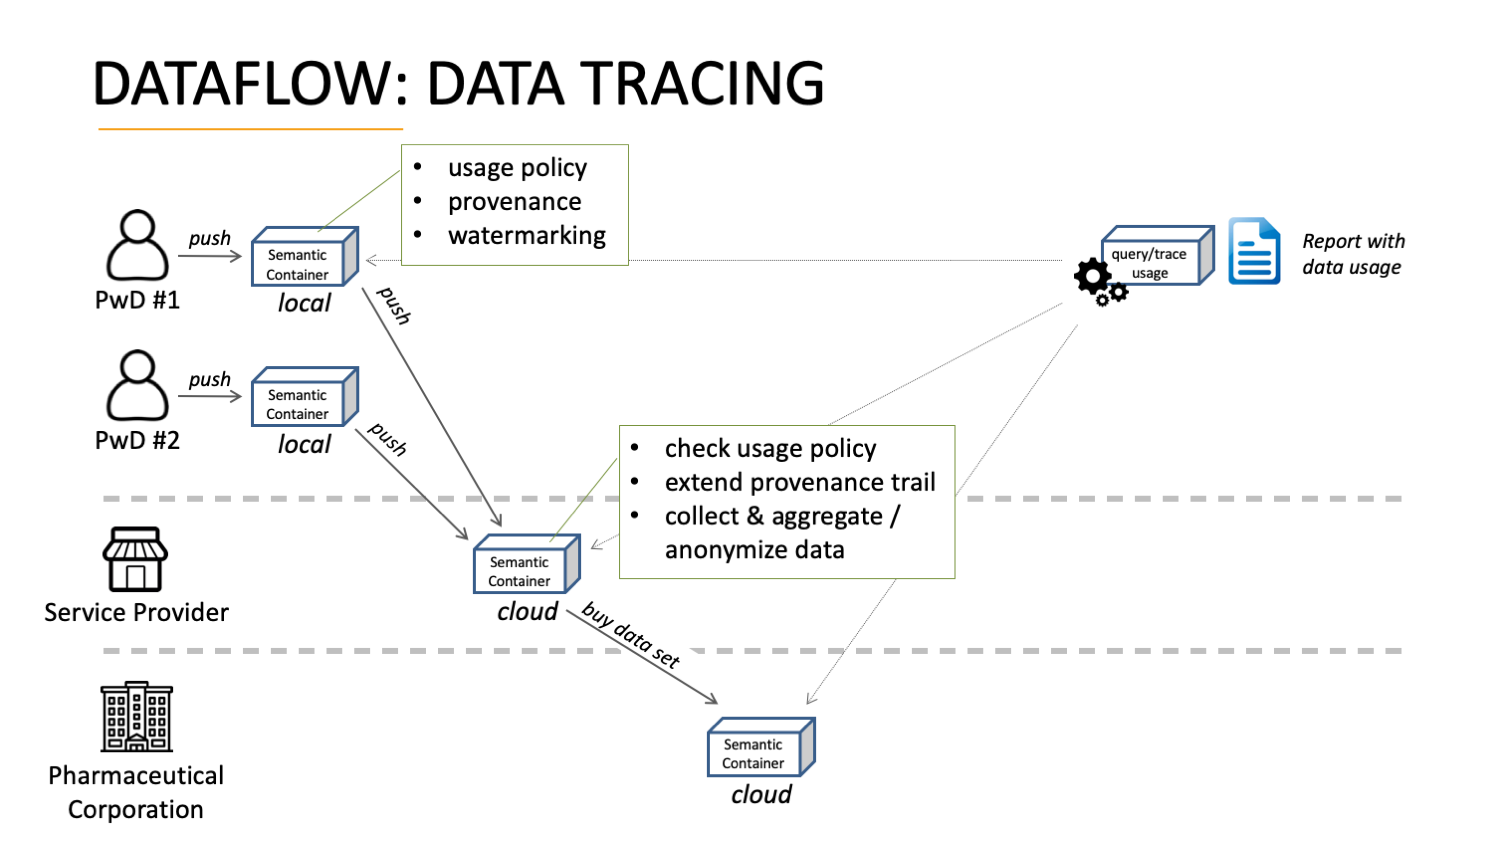
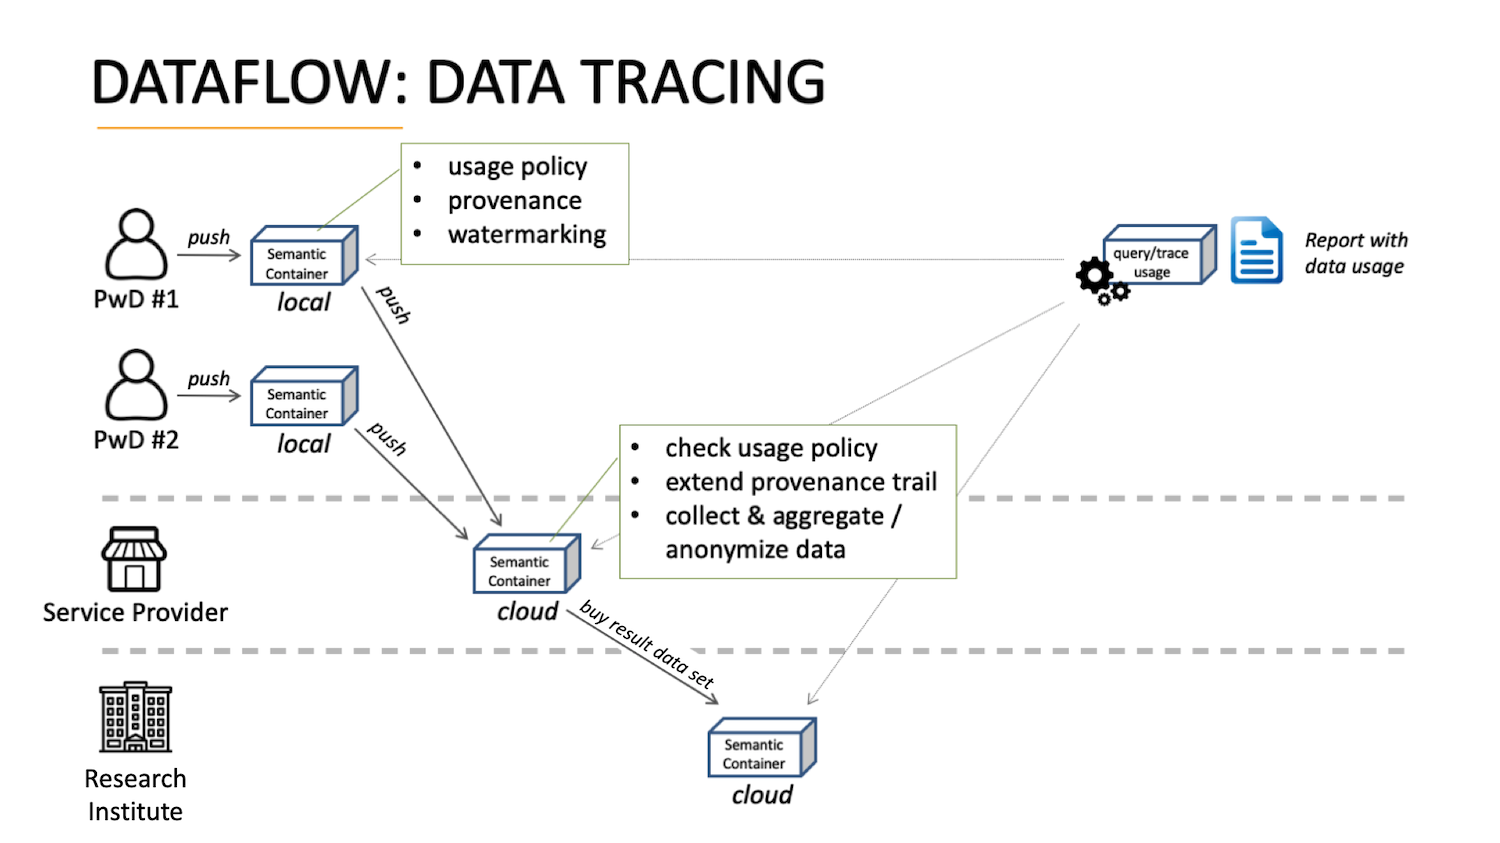
updated names

diff --git a/dataflows/Data_Tracing/README.md b/dataflows/Data_Tracing/README.md
@@ -22,7 +22,7 @@ The following stakeholders are part of the dataflow:
 
 * **Service Provider** receives diabetes data from various PwDs and aggregates/anonymizes the data    
 
-* **Pharamceutical Corporation** buys a subset of the aggregated data provided by the Service Provider    
+* **Research Institute** buys a subset of the aggregated data (result data set) provided by the Service Provider    
 
 
 ## Components    
@@ -37,7 +37,7 @@ The following components are part of the dataflow:
 * **Cloud Semantic Container of Service Provider**    
     *configuration:* [df3_service_cloud_init.trig](df3_service_cloud_init.trig)     
 
-* **Cloud Semantic Container of Pharmaceutical Corporation**    
+* **Cloud Semantic Container of Reserach Institute**    
     *configuration:* [df3_corp_cloud_init.trig](df3_corp_cloud_init.trig)     
 
 
@@ -60,14 +60,14 @@ The following components are part of the dataflow:
     The following capabilities are demonstrated in this step:    
     * aggregating/anonymizing data in a Semantic Container
 
-3. **Pharmaceutical Corporation acquires data set**    
-    A subset of the aggregated data is tranferred to a Semantic Container of the Pharmaceutical Company.
+3. **Research Institute acquires data set**    
+    A subset of the aggregated data is tranferred to a Semantic Container of the Research Institute.
 
     The following capabilities are demonstrated in this step:    
     * a service provider transfers selected (aggregated) data to a 3rd party
 
 4. **PwD traces data along processing pipeline**
-    PwDs use information in Semantic Containers to trace the data flow from the local container towards the cloud container of the Pharmaceutical Corporation.
+    PwDs use information in Semantic Containers to trace the data flow from the local container towards the cloud container of the Research Institute.
 
     The following capabilities are demonstrated in this step:    
     * each PwD traces his/her own data and compiles a usage report
@@ -200,8 +200,8 @@ This section provides example commands to demonstrate the functionality describe
         curl -s -H "Content-Type: application/json" -H "Authorization: Bearer $SERVICE_TOKEN_CLOUD" \
             http://localhost:4100/api/data/plain | jq -r '. | length'
 
-3. **Pharmaceutical Corporation acquires data set**    
-    a) start cloud Semantic Container for harmaceutical Corporation (*docker name: df3_corp_cloud, port: 4200*)    
+3. **Research Institute acquires data set**    
+    a) start cloud Semantic Container for Research Institute (*docker name: df3_corp_cloud, port: 4200*)    
 
         SC_IMAGE=semcon/sc-diabetes:latest; \
         docker run -d --name df3_corp_cloud -p 4200:3000 \
@@ -219,7 +219,7 @@ This section provides example commands to demonstrate the functionality describe
             http://localhost:4200/oauth/token | jq -r '.access_token'`
 
 
-    c) Service Provider pushes data to Pharmaceutical Corporation    
+    c) Service Provider pushes data to Research Institute    
         in this examples it is a single day (2018-09-07) that includes only data from PwD #1
 
         curl -s -H "Authorization: Bearer $SERVICE_TOKEN_CLOUD" http://localhost:4100/api/data/2018-09-07 | \
@@ -239,7 +239,7 @@ This section provides example commands to demonstrate the functionality describe
             jq -r '.[0]'`; \
             curl -s http://localhost:4001/api/rcpt/2/$RECEIPT_ID | jq
 
-    **Result:** the subsequent access requests from local container (uid: `b9bf5926-4ce4-4568-b479-dcf2a4b917fa`) to Serivce Prover (uid :`e5058d89-8744-4c61-ab70-aaa4749d24a5`) to Pharmaceutical Corporation (uid: `658e0758-9638-4b07-9553-e4cf65c1e9df`) are shown in the usage report    
+    **Result:** the subsequent access requests from local container (uid: `b9bf5926-4ce4-4568-b479-dcf2a4b917fa`) to Serivce Prover (uid :`e5058d89-8744-4c61-ab70-aaa4749d24a5`) to Research Institute (uid: `658e0758-9638-4b07-9553-e4cf65c1e9df`) are shown in the usage report    
 
     *Hint:* use the API endpoint `curl -s http://HOST:PORT/api/receipt/:RECEIPT_HASH` (i.e., `receipt` instead of `rcpt`) to also show individual IDs of the records transferred; for an overview the abreviated version is used here
 
@@ -274,7 +274,7 @@ This section provides example commands to demonstrate the functionality describe
             curl -s http://localhost:4002/api/rcpt/2/$RECEIPT_ID | jq
 
 
-    **Result:** since data from PwD #2 was not used in the aggregation for the query from the Pharmaceutical Corporation (day=2018-09-07) the tracing shows only data in the local container (uid: `a`) and transfer to the Service Provider (uid: `e5058d89-8744-4c61-ab70-aaa4749d24a5`)    
+    **Result:** since data from PwD #2 was not used in the aggregation for the query from the Research Institute (day=2018-09-07) the tracing shows only data in the local container (uid: `a`) and transfer to the Service Provider (uid: `e5058d89-8744-4c61-ab70-aaa4749d24a5`)    
 
     ```json
     {
@@ -292,7 +292,7 @@ This section provides example commands to demonstrate the functionality describe
     }    
     ```
 
-    c) transfer additional data (`day=2018-09-08`, i.e., a dataset that includes both PwDs) from Service Provider to Pharmaceutical Corporation    
+    c) transfer additional data (`day=2018-09-08`, i.e., a dataset that includes both PwDs) from Service Provider to Research Institute    
 
         curl -s -H "Authorization: Bearer $SERVICE_TOKEN_CLOUD" http://localhost:4100/api/data/2018-09-08 | \
             curl -s -X POST -d @- \
@@ -304,7 +304,7 @@ This section provides example commands to demonstrate the functionality describe
                 -H "Authorization: Bearer $SERVICE_TOKEN_CLOUD" \
                 http://localhost:4100/api/receipt
 
-    **Result PwD #1**: an additional entry tranferred from Service Provider to Pharmaceutical Corporation    
+    **Result PwD #1**: an additional entry tranferred from Service Provider to Research Institute    
 
         RECEIPT_ID=`curl -s -H "Authorization: Bearer $PWD1_TOKEN_LOCAL" http://localhost:4001/api/receipts | \
             jq -r '.[0]'`; \
@@ -340,7 +340,7 @@ This section provides example commands to demonstrate the functionality describe
     ```
 
 
-    **Result PwD #2**: data now also tranferred from Service Provider to Pharmaceutical Corporation    
+    **Result PwD #2**: data now also tranferred from Service Provider to Research Institute    
 
         RECEIPT_ID=`curl -s -H "Authorization: Bearer $PWD2_TOKEN_LOCAL" http://localhost:4002/api/receipts | \
             jq -r '.[0]'`; \
